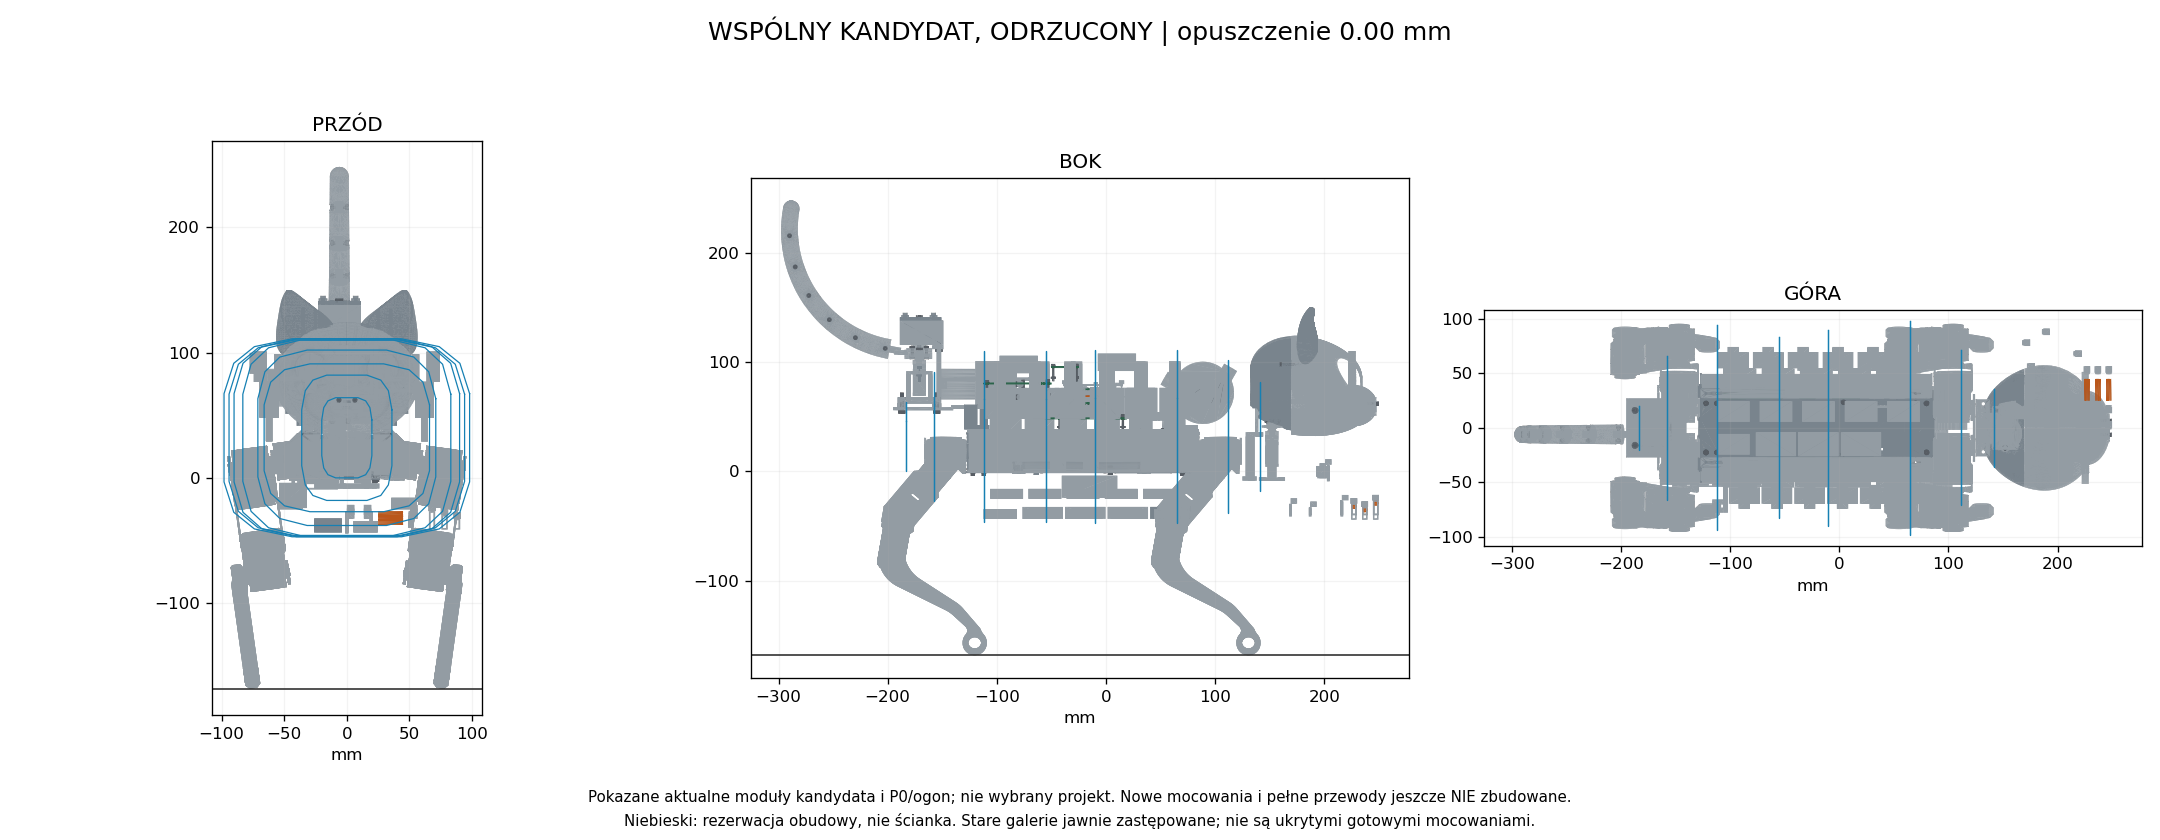
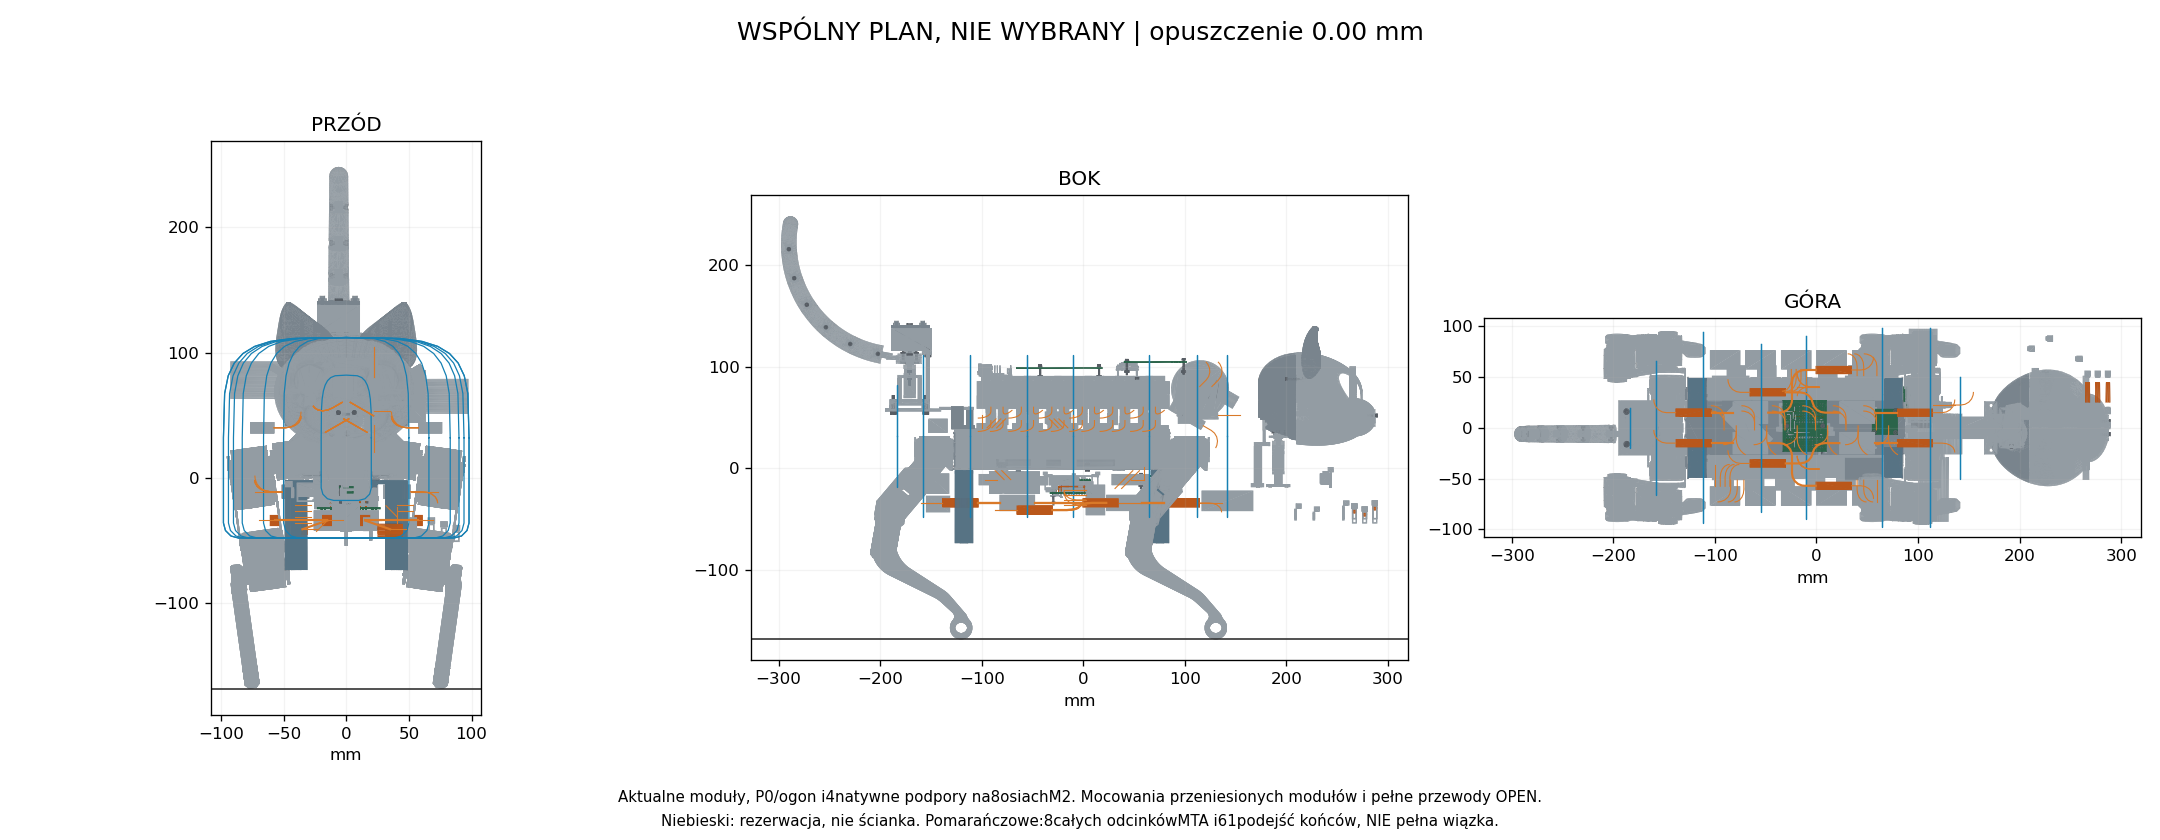
Render honest current front side top with bolted feet and partial routed scope

diff --git a/tools/cad/render_feline_candidate.py b/tools/cad/render_feline_candidate.py
@@ -2,8 +2,10 @@
 import json
 import pickle
 import time
+import sys
 import numpy as np
 import FreeCAD as A
+import Part
 import matplotlib
 matplotlib.use('Agg')
 import matplotlib.pyplot as plt
@@ -32,15 +34,46 @@ def main():
                 r=plan['reference_substitutions'][n];s=reader.shape(ROOT/r['source'],r['object'])
                 s.translate(A.Vector(*r['world_shift_before_head_drop_mm']))
                 p,f=s.tessellate(.8);v=np.array([list(x) for x in p])[np.array(f)]
+            if n in plan.get('part_pose_overrides',{}):
+                ov=plan['part_pose_overrides'][n]
+                v=v@np.array(ov['rotation_rows']).T+ov['translation_mm']
             # Dropping triangles is not mesh simplification: it creates
             # misleading holes in heads and plates. Render the whole mesh.
             placed[n]=(v@np.array(g['rotation_rows']).T+g['translation_mm'],c,kind)
     for n,r in inventory.items():
         if n in placed or r['kind']!='surface':continue
+        if n.startswith('BatteryFrameHardware'):continue
         if r['label'].startswith(('P0_','tail/')) or n.startswith(('Print_P0_','Print_CP2_TailRiser','Battery')):
             v,c,kind=cache[n];placed[n]=(v,c,kind)
+    feet=json.loads((OUT/'belly-feet-native.json').read_text())
+    assert feet['external_fit_complete']
+    for row in feet['parts']+feet['hardware']:
+        s=reader.shape(ROOT/feet['native'],row['object']);p,f=s.tessellate(.5)
+        v=np.array([list(x) for x in p])[np.array(f)]
+        placed[row['object']]=(v,np.array([.4,.53,.61]),'surface')
     axes=json.loads((ROOT/'hardware/simulation/p0/e6-leg-compatibility.json').read_text())['axes']
-    for index,filename in [(0,'candidate-standing.png'),(envelope['planning_pose_index'],'candidate-lying.png')]:
+    views=[(0,'candidate-standing.png')]
+    if '--standing-only' not in sys.argv:views.append((envelope['planning_pose_index'],'candidate-lying.png'))
+    factory=json.loads((OUT/'factory-routes.json').read_text())
+    current_factory=factory['source_sha256'][(OUT/'module-layout.json').relative_to(ROOT).as_posix()]==__import__('hashlib').sha256((OUT/'module-layout.json').read_bytes()).hexdigest()
+    curves=[]
+    if current_factory:
+        for row in factory['routes']:
+            edges=[]
+            for p in row['parts']:
+                a,b=A.Vector(*p['start']),A.Vector(*p['end'])
+                edges.append(Part.makeLine(a,b) if p['kind']=='line' else Part.Arc(a,A.Vector(*p['mid']),b).toShape())
+            curves.append(np.array([list(v) for v in Part.Wire(edges).discretize(Deflection=.2)]))
+    prefixes=json.loads((OUT/'prefix-allocation.json').read_text());approaches=[]
+    specs={r['id']:r for r in prefixes['specifications']}
+    assert prefixes['source_sha256'][(OUT/'module-layout.json').relative_to(ROOT).as_posix()]==__import__('hashlib').sha256((OUT/'module-layout.json').read_bytes()).hexdigest()
+    for key,k in prefixes['allocation'].items():
+        r=specs[key];bend=next(c['bend'] for c in prefixes['domains'][key] if c['option']==k)
+        p=A.Vector(*r['point']);d=A.Vector(*r['direction']);d.normalize()
+        b=A.Vector(*bend);b=b-d*b.dot(d);b.normalize();q=p+d*9;R=12.4
+        w=Part.Wire([Part.makeLine(p,q),Part.Arc(q,q+d*(R/2**.5)+b*(R*(1-1/2**.5)),q+d*R+b*R).toShape()])
+        approaches.append(np.array([list(v) for v in w.discretize(Deflection=.2)]))
+    for index,filename in views:
         pose=motion['poses'][index];drop=pose['body_drop_mm'];members={}
         for code,groups in motion['membership'].items():
             aa=[next(a for a in axes if a['code']==code and a['stage']==stage) for stage in STAGES]
@@ -48,10 +81,10 @@ def main():
             for stage,t in zip(STAGES,tf):
                 for n in groups[stage]:members[n]=t
         fig,axs=plt.subplots(1,3,figsize=(18,7),dpi=120)
-        views=[('PRZÓD',np.array([[0,0,-1],[1,0,0],[0,1,0]])),
+        camera_views=[('PRZÓD',np.array([[0,0,-1],[1,0,0],[0,1,0]])),
             ('BOK',np.array([[-1,0,0],[0,0,1],[0,1,0]])),
             ('GÓRA',np.array([[-1,0,0],[0,1,0],[0,0,-1]]))]
-        for ax,(title,basis) in zip(axs,views):
+        for ax,(title,basis) in zip(axs,camera_views):
             polygons=[];colors=[];depth=[]
             for n,(v,c,kind) in placed.items():
                 if n in members:v=apply(v.reshape(-1,3),members[n]).reshape(v.shape)
@@ -59,17 +92,23 @@ def main():
                 polygons.append(p[:,:,:2]);depth.append(p[:,:,2].mean(1));colors.append(np.tile(c*.85,(len(p),1)))
             v=np.concatenate(polygons);d=np.concatenate(depth);c=np.concatenate(colors);order=np.argsort(d)
             ax.add_collection(PolyCollection(v[order],facecolors=c[order],edgecolors='none',rasterized=True))
-            co,si=section_coefficients();co=np.r_[co,co[0]];si=np.r_[si,si[0]]
             for x,w,h in STATIONS:
-                v=np.column_stack((np.full(17,x),co*w/2,envelope['native']['center_z_mm']+si*h/2-drop))@basis
+                co,si=section_coefficients(w,h);co=np.r_[co,co[0]];si=np.r_[si,si[0]]
+                v=np.column_stack((np.full(len(co),x),co*w/2,envelope['native']['center_z_mm']+si*h/2-drop))@basis
                 ax.plot(v[:,0],v[:,1],color='#1680b3',lw=.75)
+            for curve in curves:
+                q=curve.copy();q[:,2]-=drop;q=q@basis
+                ax.plot(q[:,0],q[:,1],color='#d97928',lw=1.3)
+            for curve in approaches:
+                q=curve.copy();q[:,2]-=drop;q=q@basis
+                ax.plot(q[:,0],q[:,1],color='#d97928',lw=.65)
             if title!='GÓRA':ax.axhline(motion['ground_rest_z_mm'],color='#333333',lw=1)
             ax.autoscale_view();ax.set_aspect('equal');ax.grid(alpha=.15);ax.set_title(title);ax.set_xlabel('mm')
-        fig.suptitle(f'WSPÓLNY KANDYDAT, ODRZUCONY | opuszczenie {drop:.2f} mm',fontsize=15)
-        fig.text(.5,.045,'Pokazane aktualne moduły kandydata i P0/ogon; nie wybrany projekt. Nowe mocowania i pełne przewody jeszcze NIE zbudowane.',ha='center',fontsize=9)
-        fig.text(.5,.017,'Niebieski: rezerwacja obudowy, nie ścianka. Stare galerie jawnie zastępowane; nie są ukrytymi gotowymi mocowaniami.',ha='center',fontsize=9)
+        fig.suptitle(f'WSPÓLNY PLAN, NIE WYBRANY | opuszczenie {drop:.2f} mm',fontsize=15)
+        fig.text(.5,.045,'Aktualne moduły, P0/ogon i4natywne podpory na8osiachM2. Mocowania przeniesionych modułów i pełne przewody OPEN.',ha='center',fontsize=9)
+        fig.text(.5,.017,'Niebieski: rezerwacja, nie ścianka. Pomarańczowe:8całych odcinkówMTA i61podejść końców, NIE pełna wiązka.',ha='center',fontsize=9)
         fig.tight_layout(rect=(0,.07,1,.94));fig.savefig(OUT/filename,facecolor='white');plt.close(fig)
-    print(json.dumps(dict(views=['candidate-standing.png','candidate-lying.png'],parts=len(placed),seconds=round(time.monotonic()-tick,3))),flush=True)
+    print(json.dumps(dict(views=[f for i,f in views],parts=len(placed),factory_curves=len(curves),seconds=round(time.monotonic()-tick,3))),flush=True)
 
 
 if __name__=='__main__':main()
